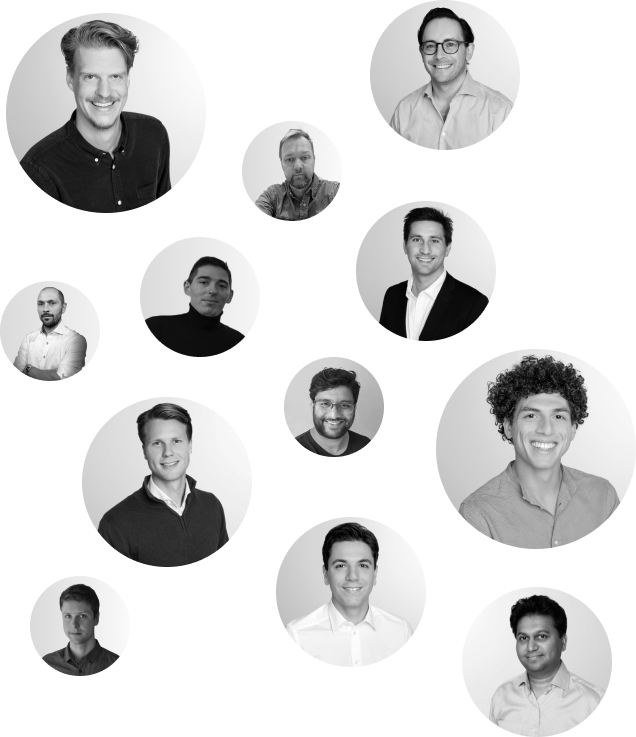
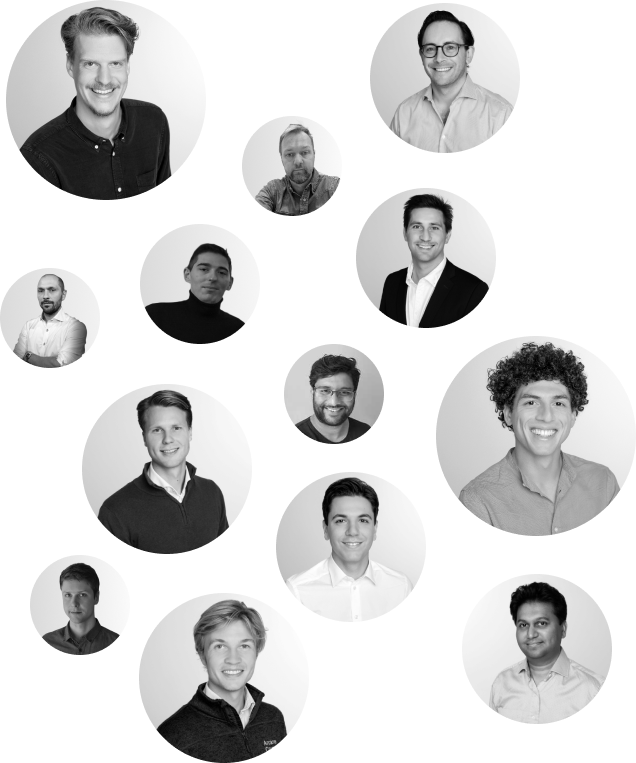
Add Vetle to the team :)

diff --git a/pages/about/index.js b/pages/about/index.js
@@ -30,7 +30,7 @@ export default function AboutPage() {
         </div>
 
         <div className={styles.imageWrapper}>
-          <Image src="/AboutUs.png" alt="The Team" width={636} height={737} />
+          <Image src="/AboutUs.png" alt="The Team" width={636} height={763} />
         </div>
       </section>
     </Page>
